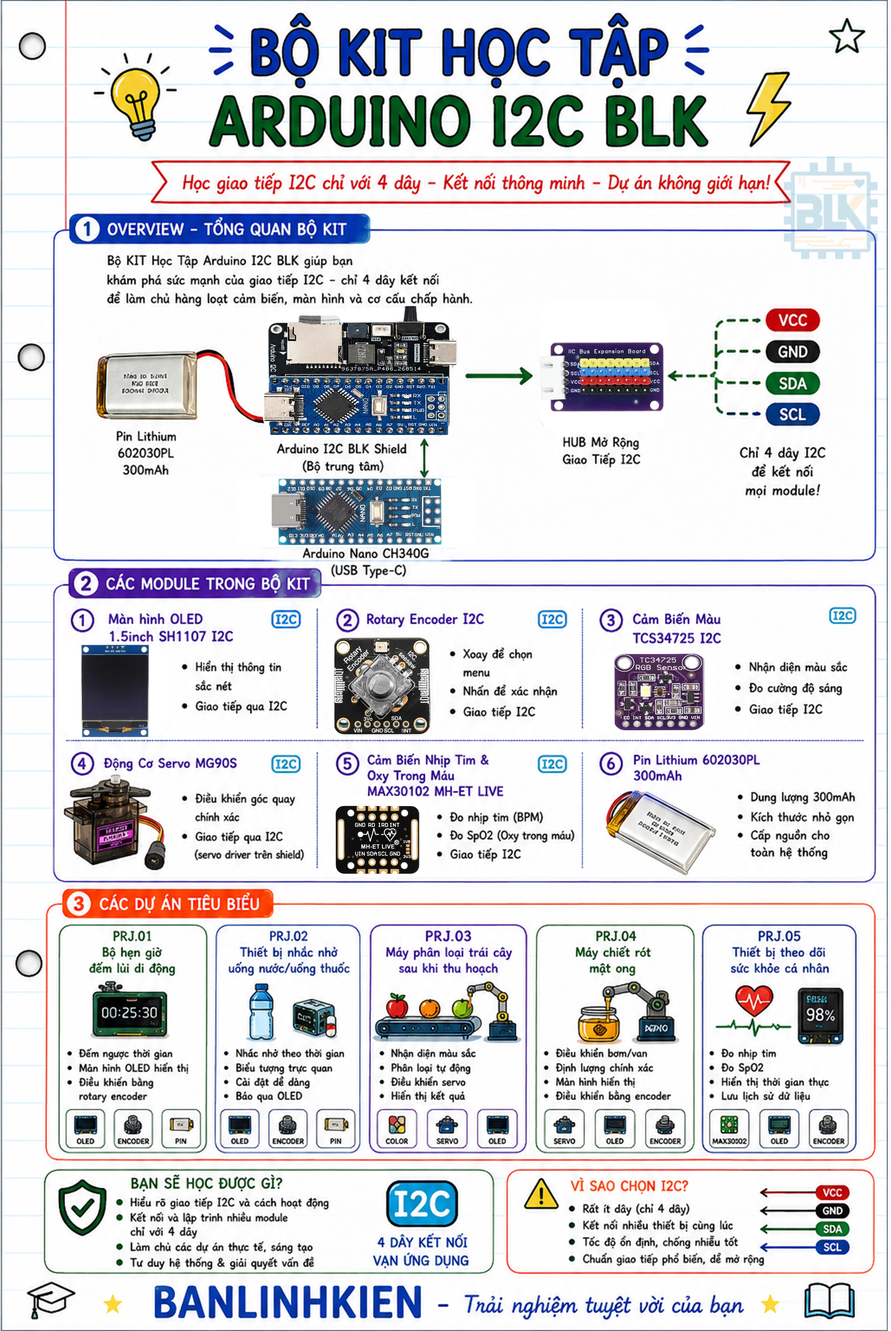
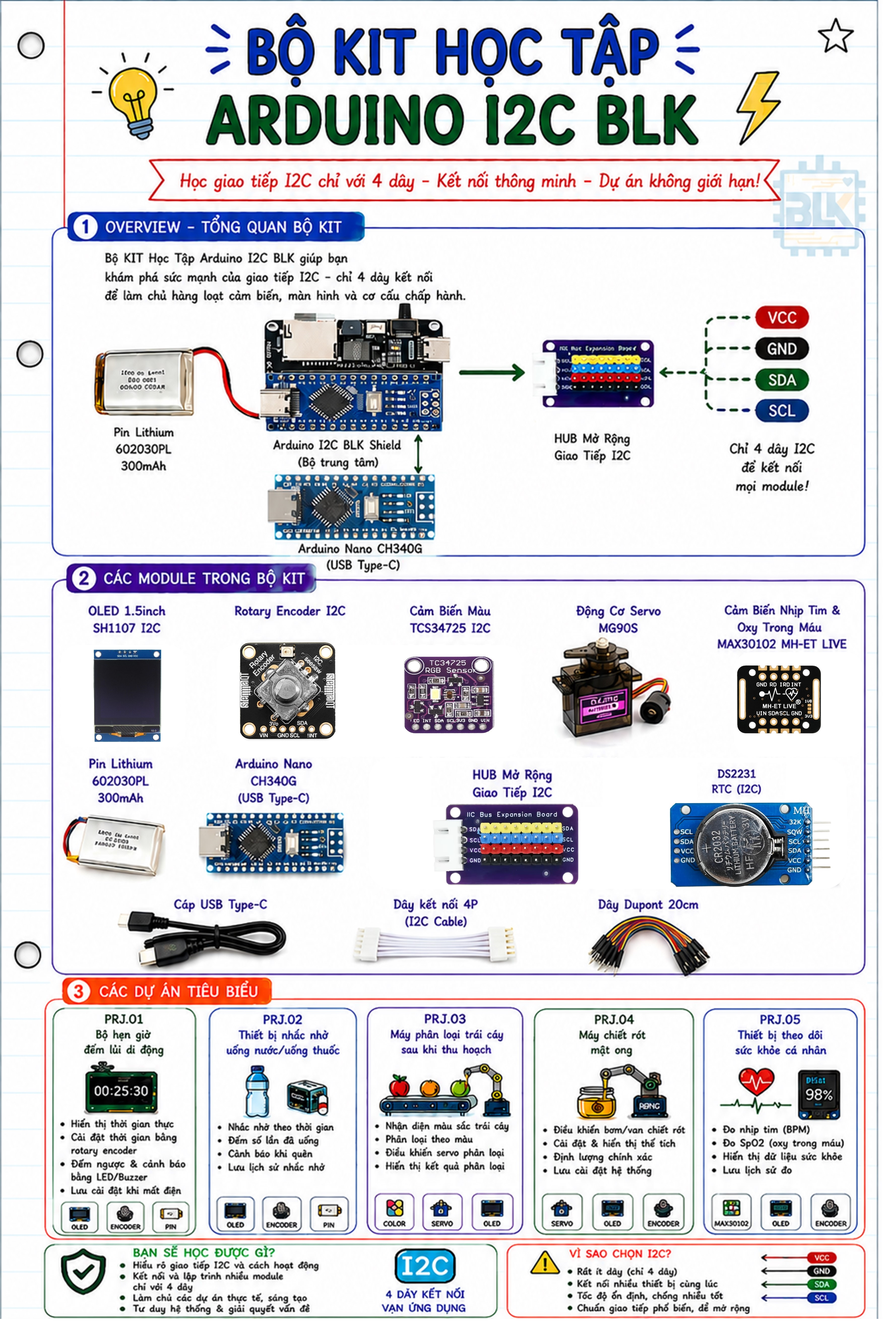
update

diff --git a/README.md b/README.md
@@ -1,27 +1,12 @@
 
-![BANLINHKIEN](https://pos.nvncdn.com/f2fe44-24897/store/20180126_gVLn1I1Irv2dz2XjhYDIshMM.png)
-
-<img src="https://encrypted-tbn0.gstatic.com/images?q=tbn:ANd9GcTuMYP8t3RGESq5KDLPLjtqvTmeG_ZQzaz56Q&s" alt="Youtube" width="50" />   [**BanLinhKien.Vn**](https://www.youtube.com/@BanLinhKienVn)
-
-<img src="https://encrypted-tbn0.gstatic.com/images?q=tbn:ANd9GcTvQHkkzWJBXyAHKcdVe2KQ3kYJvneBO-zUag&s" alt="Tiktok" width="50" />   [**BanLinhKien Retail**](https://www.tiktok.com/@banlinhkienretail?lang=vi-VN)
-
-<img src="https://encrypted-tbn0.gstatic.com/images?q=tbn:ANd9GcRdgS0IxquKvMSPtIH1lRTPotJWkOBLT_KQ5g&s" alt="Facebook" width="50" />   [**Banlinhkien**](https://www.facebook.com/banlinhkienMH)
-
-<img src="https://quyhyvong.com/wp-content/uploads/2021/11/Logo-Shopee.png" alt="Shopee" width="50" />   [**Banlinhkien.com Official Store**](https://shopee.vn/banlinhkien_mh)
-
-<img src="https://cdn.advertisingvietnam.com/image/2022/04/28/1651134854323.png" alt="TiktokShop" width="50" />   [**BanLinhKien Retail**](https://www.tiktok.com/@banlinhkienretail?_t=8qfDAd26YlD&_r=1)
-
-<img src="https://pos.nvncdn.com/f2fe44-24897/store/20180126_gVLn1I1Irv2dz2XjhYDIshMM.png" alt="Banlinhkien" width="50" />   [**BanLinhKien**](https://banlinhkien.com/)
-
----
 # <p align="center">  Bộ KIT Học Tập Arduino I2C BLK   </p>
 
 ###  Giới Thiệu
 
 - **Bộ KIT Học Tập Arduino I2C BLK** là bộ công cụ thực hành được xây dựng trên nền tảng vi điều khiển **Arduino Nano (ATmega328P)**, tập trung chuyên sâu vào giao thức giao tiếp **I2C (Inter-Integrated Circuit)**. 
-- Bộ KIT được thiết kế dành cho người dùng *đã nắm vững kiến thức lập trình Arduino nền tảng* (GPIO, ngắt, giao tiếp UART/Serial cơ bản) và có nhu cầu tiếp cận các giao thức giao tiếp đồng bộ đa thiết bị (multi-device synchronous bus) trong các dự án hệ thống nhúng.
+- Bộ KIT được thiết kế dành cho người dùng *đã nắm vững kiến thức lập trình Arduino nền tảng* như GPIO, Timer, PWM, ADC, ngắt (Interrupt) và giao tiếp UART/Serial cơ bản. Nếu bạn chưa có những kiến thức này, chúng tôi khuyến nghị bắt đầu với [Bộ KIT Học Tập Arduino Uno R3 BLK Plus](https://banlinhkien.com/bo-kit-hoc-tap-arduino-uno-r3-blk-plus-p38419270.html) để xây dựng nền tảng trước khi tiếp cận bộ KIT này. Trên cơ sở đó, **Bộ KIT Học Tập Arduino I2C BLK** sẽ giúp bạn làm chủ giao thức giao tiếp I2C, kết nối đồng thời nhiều thiết bị trên cùng một bus truyền thông và phát triển các dự án hệ thống nhúng có tính thực tiễn cao.
 
-<p align="center"> <img src="https://raw.githubusercontent.com/theduong6168/BLKLab/refs/heads/main/image/BO_KIT_I2C.png"  width="500"/> </p>
+<p align="center"> <img src="https://raw.githubusercontent.com/theduong6168/BLKLab/refs/heads/main/image/linhkien.jpg"  width="500"/> </p>
 
 - **Kết nối đơn giản, mở rộng dễ dàng:**
     - Chỉ cần 2 dây tín hiệu (SDA, SCL) để kết nối nhiều thiết bị trên cùng một bus.
@@ -34,11 +19,10 @@
     🔵 SCL  (Clock)
 ```
 - **Học qua dự án thực hành trực quan:**
-    - Chuỗi dự án mới, được thiết kế riêng để làm quen từng module cảm biến.
+    - Học thêm các module mới thông qua các dự án trực quan 
+    -  Trải nghiệm thao tác kết nối phần cứng đơn giản thông qua giao thức I2C
     - Vừa học vừa thấy kết quả ngay khi lắp ráp và chạy thử.
     - Từ giao tiếp một cảm biến đơn đến phối hợp nhiều cảm biến trên cùng một bus.
-
-
 
 
 | Đối tượng khách hàng | Vấn đề gặp phải | Giải pháp từ bộ KIT |
@@ -58,20 +42,71 @@
 | PRJ.04 | Máy chiết rót mật ong              | 
 | PRJ.05 | Thiết bị theo dõi sức khỏe         | 
 
+### Danh Sách Linh Kiện Trong Bộ KIT
 
+| STT | Linh kiện | Số lượng |
+|:---:|-----------|:--------:|
+| 1 | Arduino I2C BLK Shield | 1 |
+| 2 | HUB Mở Rộng Giao Tiếp I2C | 1 |
+| 3 | KIT Arduino Nano CH340G Cổng Type-C | 1 |
+| 4 | Dây USB A - Type-C 50 cm | 1 |
+| 5 | Màn hình OLED 1.5 inch SH1107 I2C | 1 |
+| 6 | Rotary Encoder I2C | 1 |
+| 7 | Module DS3231 + AT24C32 | 1 |
+| 8 | Cảm biến màu RGB TCS34725 | 1 |
+| 9 | Động cơ Servo MG90S | 1 |
+| 10 | Module cảm biến đo nhịp tim MAX30102 | 1 |
+| 11 | Dây trắng 4P XH2.54 - 4P, dài 10 cm | 1 |
+| 12 | Dây Jumper Cái - Cái 4P 2.54 mm, dài 20 cm |5 |
+| 13 | Pin Lithium 602030PL 300 mAh | 1 |
+| 14 | Hộp đựng linh kiện 6 ngăn (16.5 × 12 × 6 cm) | 1 |
 
-###  Sau Khi Hoàn Thành Bộ KIT
+## FAQs
 
-- <img src="https://img.icons8.com/?size=100&id=pIPl8tqh3igN&format=png&color=000000"  width="20"/> Lập trình thành thạo với Arduino Nano.
-- <img src="https://img.icons8.com/?size=100&id=pIPl8tqh3igN&format=png&color=000000"  width="20"/> Hiểu nguyên lý và sử dụng giao tiếp I2C.
-- <img src="https://img.icons8.com/?size=100&id=pIPl8tqh3igN&format=png&color=000000"  width="20"/> Trải nghiệm thao tác kết nối phần cứng đơn giản thông qua giao thức I2C
-- <img src="https://img.icons8.com/?size=100&id=pIPl8tqh3igN&format=png&color=000000"  width="20"/> Học thêm các module mới thông qua các PRJ trực quan
-- <img src="https://img.icons8.com/?size=100&id=pIPl8tqh3igN&format=png&color=000000"  width="20"/> Xây dựng giao diện OLED chuyên nghiệp.
-- <img src="https://img.icons8.com/?size=100&id=pIPl8tqh3igN&format=png&color=000000"  width="20"/> Thiết kế hệ thống menu bằng Rotary Encoder.
-- <img src="https://img.icons8.com/?size=100&id=pIPl8tqh3igN&format=png&color=000000"  width="20"/> Kết hợp cảm biến và cơ cấu chấp hành.
-- <img src="https://img.icons8.com/?size=100&id=pIPl8tqh3igN&format=png&color=000000"  width="20"/> Phát triển sản phẩm STEM thực tế.
+### 1. Tôi cần có kiến thức gì trước khi sử dụng bộ KIT?
+
+Bộ KIT được thiết kế cho người đã có kiến thức Arduino cơ bản như GPIO, PWM, ADC, Interrupt và UART. Nếu bạn là người mới bắt đầu, hãy học với [Bộ KIT Học Tập Arduino Uno R3 BLK Plus](https://banlinhkien.com/bo-kit-hoc-tap-arduino-uno-r3-blk-plus-p38419270.html) trước.
+
+### 2. Bộ KIT này khác gì so với Bộ KIT Arduino Plus?
+
+[Bộ KIT Học Tập Arduino Uno R3 BLK Plus](https://banlinhkien.com/bo-kit-hoc-tap-arduino-uno-r3-blk-plus-p38419270.html) giúp bạn làm quen với lập trình Arduino và các ngoại vi cơ bản. **Bộ KIT Học Tập Arduino I2C BLK** là cấp độ tiếp theo, tập trung vào giao tiếp I2C và xây dựng các hệ thống có nhiều cảm biến, module hoạt động đồng thời.
+### 3. Tại sao bộ KIT sử dụng chuẩn kết nối I2C 4 dây?
+
+Chuẩn 4 dây (VCC, GND, SDA, SCL) giúp việc lắp ráp nhanh chóng, giảm sai sót khi đấu nối và dễ dàng mở rộng thêm thiết bị mà không cần sử dụng nhiều chân GPIO.
+
+### 4. Bộ KIT có tài liệu và mã nguồn đi kèm không?
+
+Có.
+Mỗi dự án đều đi kèm tài liệu hướng dẫn, sơ đồ đấu nối, mã nguồn mẫu và giải thích nguyên lý hoạt động để bạn dễ dàng học tập và phát triển.
+
+### 5. Nếu gặp lỗi trong quá trình học thì sao?
+
+Bạn có thể:
+- Kiểm tra mục FAQ và hướng dẫn khắc phục lỗi trong tài liệu.
+- Chạy chương trình I2C Scanner để kiểm tra kết nối.
+- Đối chiếu sơ đồ đấu nối và mã nguồn mẫu.
+- Liên hệ đội ngũ hỗ trợ kỹ thuật nếu vẫn chưa giải quyết được.
+### 6. Bộ KIT này có giúp tôi làm được đồ án hoặc sản phẩm thực tế không?
+
+Có. 
+Mục tiêu của bộ KIT không chỉ là hướng dẫn cách sử dụng từng module riêng lẻ mà còn giúp bạn hiểu cách nhiều thiết bị phối hợp với nhau trên cùng một bus I2C. Đây là nền tảng quan trọng để phát triển các dự án nhúng hoàn chỉnh, từ đồ án môn học đến sản phẩm thực tế.
+
 
 ---
 
-### <p align="center">   BỘ KIT HỌC TẬP ARDUINO I2C BLK  </p>
-<p align="center">    Kết nối thông minh- Dự án không giới hạn</p>
+
+
+![BANLINHKIEN](https://pos.nvncdn.com/f2fe44-24897/store/20180126_gVLn1I1Irv2dz2XjhYDIshMM.png)
+
+<img src="https://encrypted-tbn0.gstatic.com/images?q=tbn:ANd9GcTuMYP8t3RGESq5KDLPLjtqvTmeG_ZQzaz56Q&s" alt="Youtube" width="50" />   [**BanLinhKien.Vn**](https://www.youtube.com/@BanLinhKienVn)
+
+<img src="https://encrypted-tbn0.gstatic.com/images?q=tbn:ANd9GcTvQHkkzWJBXyAHKcdVe2KQ3kYJvneBO-zUag&s" alt="Tiktok" width="50" />   [**BanLinhKien Retail**](https://www.tiktok.com/@banlinhkienretail?lang=vi-VN)
+
+<img src="https://encrypted-tbn0.gstatic.com/images?q=tbn:ANd9GcRdgS0IxquKvMSPtIH1lRTPotJWkOBLT_KQ5g&s" alt="Facebook" width="50" />   [**Banlinhkien**](https://www.facebook.com/banlinhkienMH)
+
+<img src="https://quyhyvong.com/wp-content/uploads/2021/11/Logo-Shopee.png" alt="Shopee" width="50" />   [**Banlinhkien.com Official Store**](https://shopee.vn/banlinhkien_mh)
+
+<img src="https://cdn.advertisingvietnam.com/image/2022/04/28/1651134854323.png" alt="TiktokShop" width="50" />   [**BanLinhKien Retail**](https://www.tiktok.com/@banlinhkienretail?_t=8qfDAd26YlD&_r=1)
+
+<img src="https://pos.nvncdn.com/f2fe44-24897/store/20180126_gVLn1I1Irv2dz2XjhYDIshMM.png" alt="Banlinhkien" width="50" />   [**BanLinhKien**](https://banlinhkien.com/)
+
